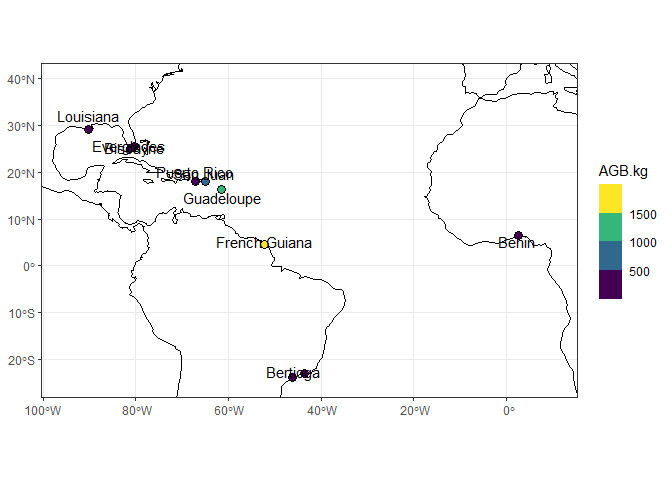
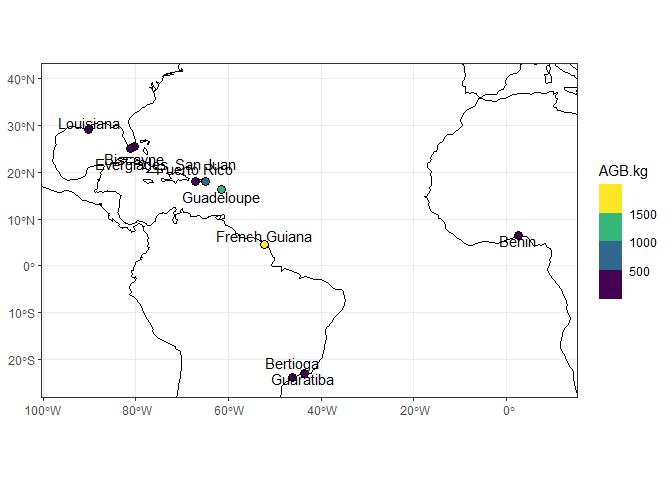
fixing spider-web plots

diff --git a/README.md b/README.md
@@ -283,7 +283,7 @@ metrics of the fixed effects models are demonstrated further below, as
 they will be included with those from mixed effects models from the same
 set of predictor variables.
 
-    ## R RNG seed set to 576531
+    ## R RNG seed set to 910164
 
     ## # A tibble: 1 × 5
     ##   `(Intercept)_Fixed` slope.var1_Fixed slope.var2_Fixed VIF.var1_Fixed VIF.var2_Fixed
@@ -686,7 +686,7 @@ checks <- lapply(unique(performance_ranked$ModelName),function(x){
 
 <div class="figure">
 
-<img src="C:\Users\BENJAM~1\AppData\Local\Temp\RtmpMdgzEY\file1189060b93a74.png" alt="An example of the assumptions plots for model '20.MixedInt_Species&amp;Site'. Each panel is a visual representation of the model assumptions. Many of the top-performing models seem to be satisfactory in meeting these assumptions, but some are not. All top model assumption plots are stored in the 'Assumptions' folder of the repository." width="100%" />
+<img src="C:\Users\BENJAM~1\AppData\Local\Temp\RtmpO4Pkd0\filea8bc3eb22f1e.png" alt="An example of the assumptions plots for model '20.MixedInt_Species&amp;Site'. Each panel is a visual representation of the model assumptions. Many of the top-performing models seem to be satisfactory in meeting these assumptions, but some are not. All top model assumption plots are stored in the 'Assumptions' folder of the repository." width="100%" />
 <p class="caption">
 
 An example of the assumptions plots for model
@@ -763,7 +763,11 @@ perfs2 <- lapply(modskeep_df |>
 perfs2 <- do.call(rbind,perfs2) |>
    filter(Effects=="Fixed"|(!is.na(ICC)&ICC>.1))|>
   mutate(Model.x=if_else(grepl("Mixed",Effects),"lmerMod","lm"),
-         Model.y=gsub("log|.cm|.m|.g.cm3","",Model)) |>
+         Model.y=gsub("log|.cm|.m|.g.cm3","",Model),
+         Model.y=gsub("CanopyDieter","Canopy",Model.y),
+         Model.y=gsub("WoodDensity","Density",Model.y),
+         Model.y=gsub("Cp.DBH.H.Den","DBHxHeightxDensity",Model.y),
+         Model.y=gsub("Cp.Can.H.Den","CanopyxHeightxDensity",Model.y)) |>
   # separate the random effects and the random variables
   # these will help in visualizing among multiple families by using the same colors for each group
   tidyr::separate(Name,sep="(?=int|Int)",remove=FALSE, into=c("RandomVars","RandomEffects")) |>
@@ -777,8 +781,8 @@ perfs2 <- do.call(rbind,perfs2) |>
          Model.y = paste0(Model.y,"\n RMSE: ",round(min(RMSE_lin,na.rm=TRUE)))) |>
   ungroup() |>
   arrange(RMSE_lin) |>
-  mutate(Model.y=factor(Model.y,levels=unique(Model.y))) %>%
-  tidyr::pivot_longer(cols=c("Rsq","Sigma","AIC","BIC","RMdSE_lin","RMSE_lin","RMSE_log.CVsd"))|>
+  #mutate(Model.y=factor(Model.y,levels=unique(Model.y))) %>%
+  tidyr::pivot_longer(cols=c("Rsq","Sigma","AIC","BIC","RMdSE_lin","RMSE_lin"))|>
   group_by(name) |>
   ###  re-scale the metrics so that the spiderwebs are comparable across families
   mutate(value2=if_else(name %in% c("Rsq"),scales::rescale(value,to=c(0.1,1)),scales::rescale(-value,to=c(0.1,1))),
@@ -786,13 +790,13 @@ perfs2 <- do.call(rbind,perfs2) |>
          group=if_else(group=="none none","Fixed",group)) |>
   ungroup() %>%
   mutate(name=if_else(name=="RMdSE_lin","RMdSE_\nlin",if_else(name=="RMSE_log.CVsd","RMSE_\nCVsd",if_else(name=="RMSE_lin","RMSE_\nlin",name))),
-         name=factor(name,levels=c("AIC","BIC","RMdSE_\nlin","RMSE_\nlin","RMSE_\nCVsd","Rsq","Sigma")))
+         name=factor(name,levels=c("AIC","BIC","RMdSE_\nlin","RMSE_\nlin","Rsq","Sigma")))
   
 ###  plot the performance plots
 plot_index=0
 perfs2 %>%
   ggplot(aes(x=name,y=value2,color=group,group=group))+
-  facet_wrap(~Model.y,scales="free",ncol =4,labeller=label_wrap_gen(width = 20))+
+  facet_wrap(~factor(Model.y,levels=unique(Model.y)),scales="free",ncol =4,labeller=label_wrap_gen(width = 20))+
   geom_polygon(linewidth=1,alpha=0)+
   scale_x_discrete(
     labels = function(x) {
